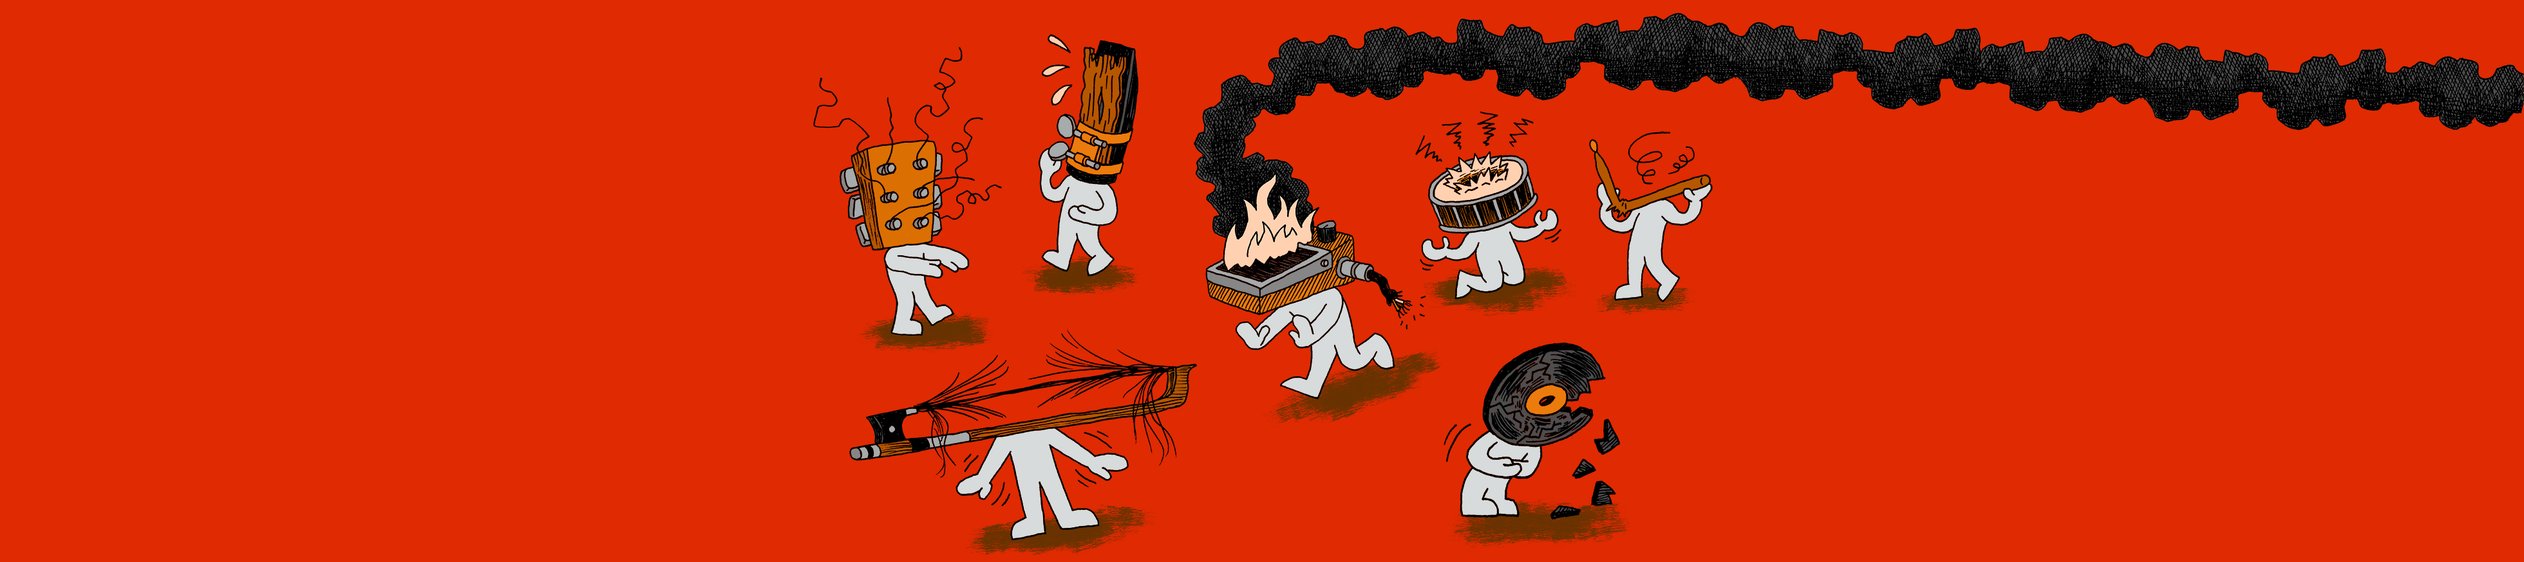
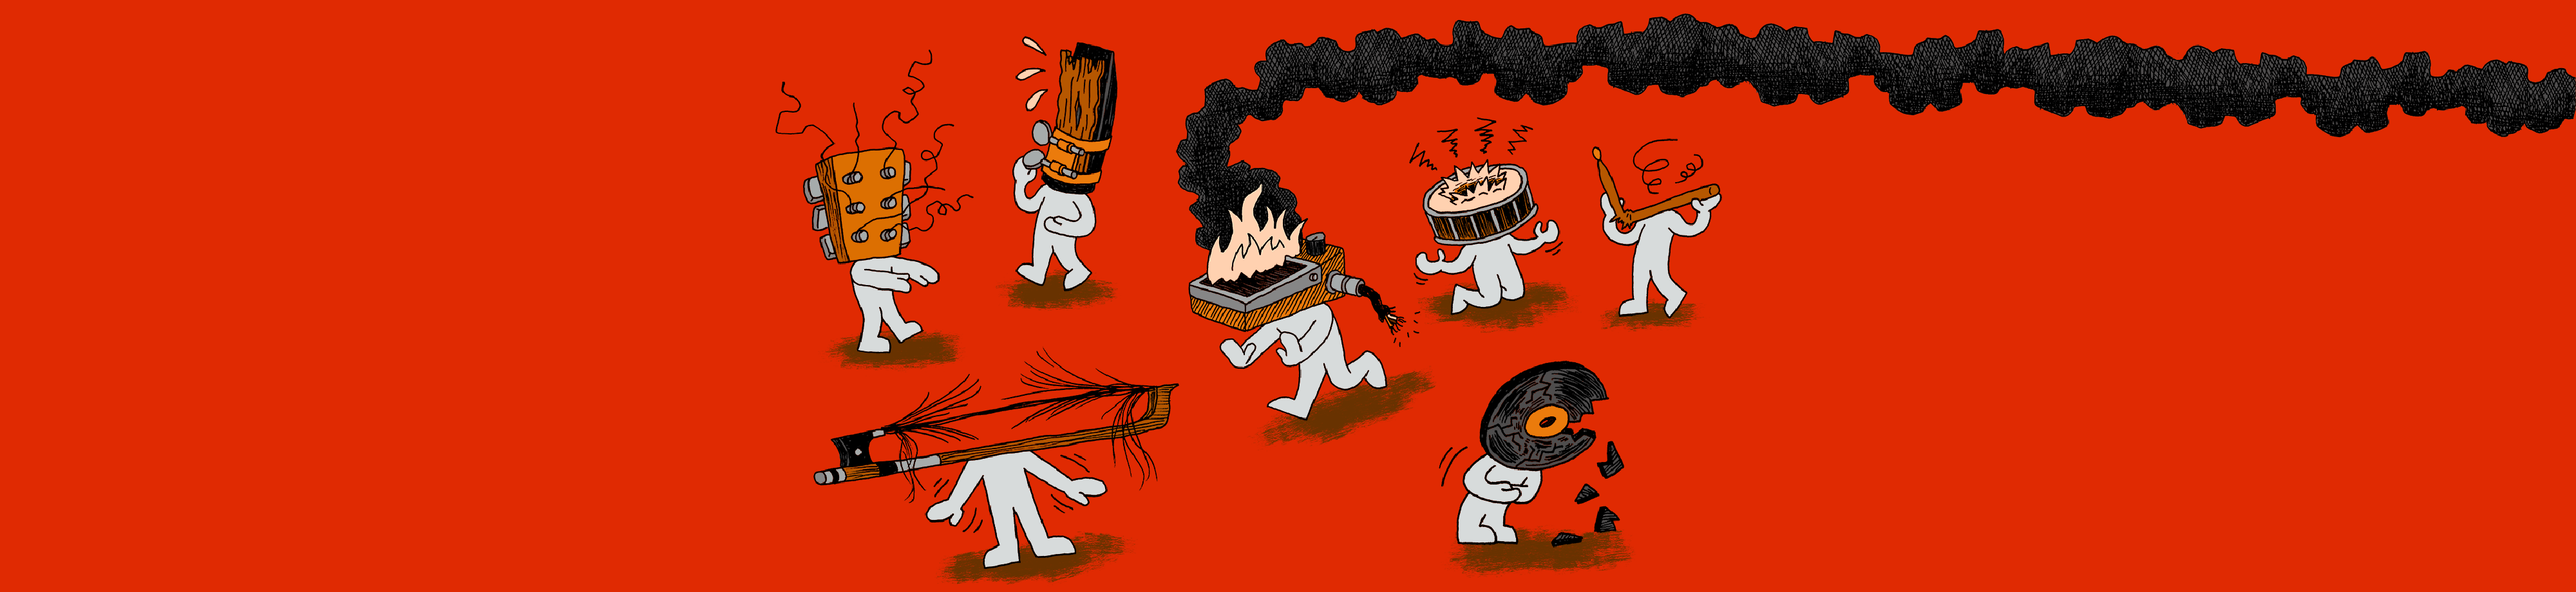
Update png to center running tuner toney, keep that BG centered and original scale for all views

Changed region(s): [[0.3112, 0.0309, 1.0, 0.9886]]

diff --git a/app/assets/stylesheets/components/illustrations.scss b/app/assets/stylesheets/components/illustrations.scss
@@ -62,16 +62,13 @@ body.error {
       }
     }
     .gift_image {
-      background: center / cover no-repeat image-url("illustrations/500-extended.png");
-      padding-bottom: 38.4%;
+      height: 460px;
+      background: no-repeat image-url("illustrations/500-extended.png");
+      background-position: center center;
+      background-size: 2000px 460px;
       position: relative;
       margin-top: 40px;
       margin-bottom: 20px;
-      @media #{$responsive} {
-        background-position-y: top;
-        background-size: auto;
-        height: 900px;
-      }
     }
   }
 }
